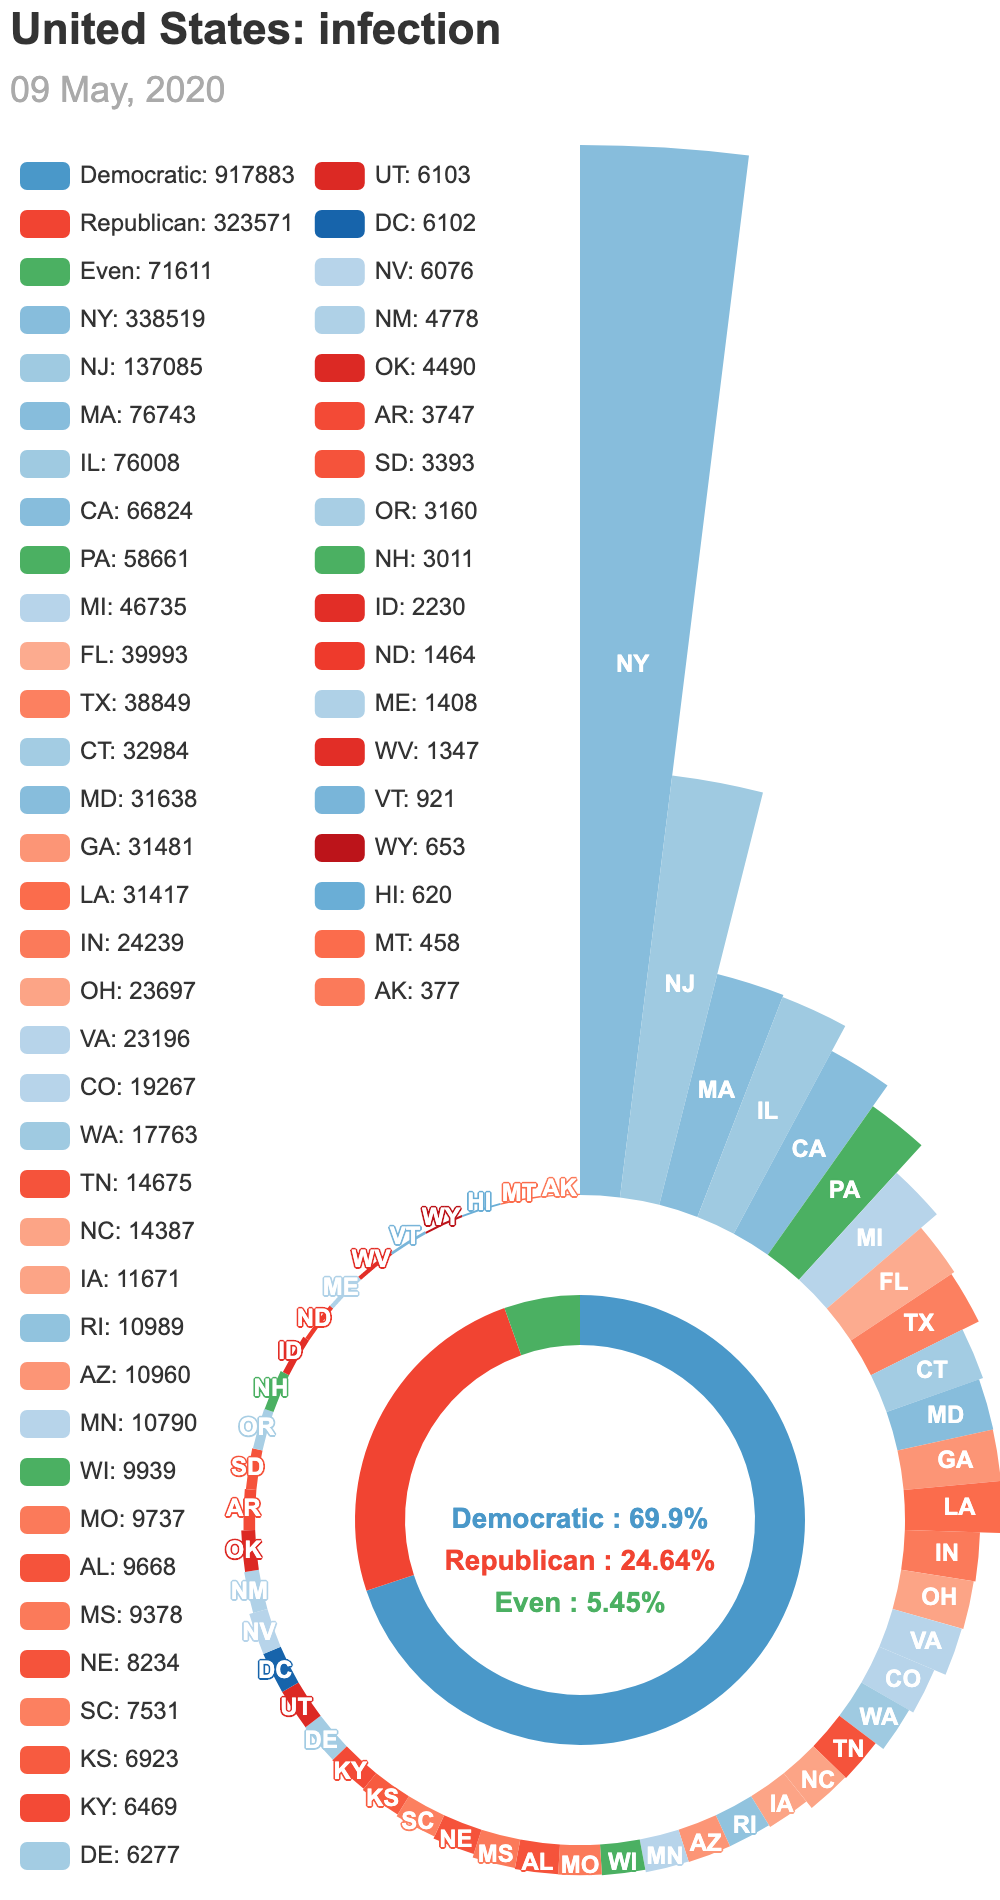
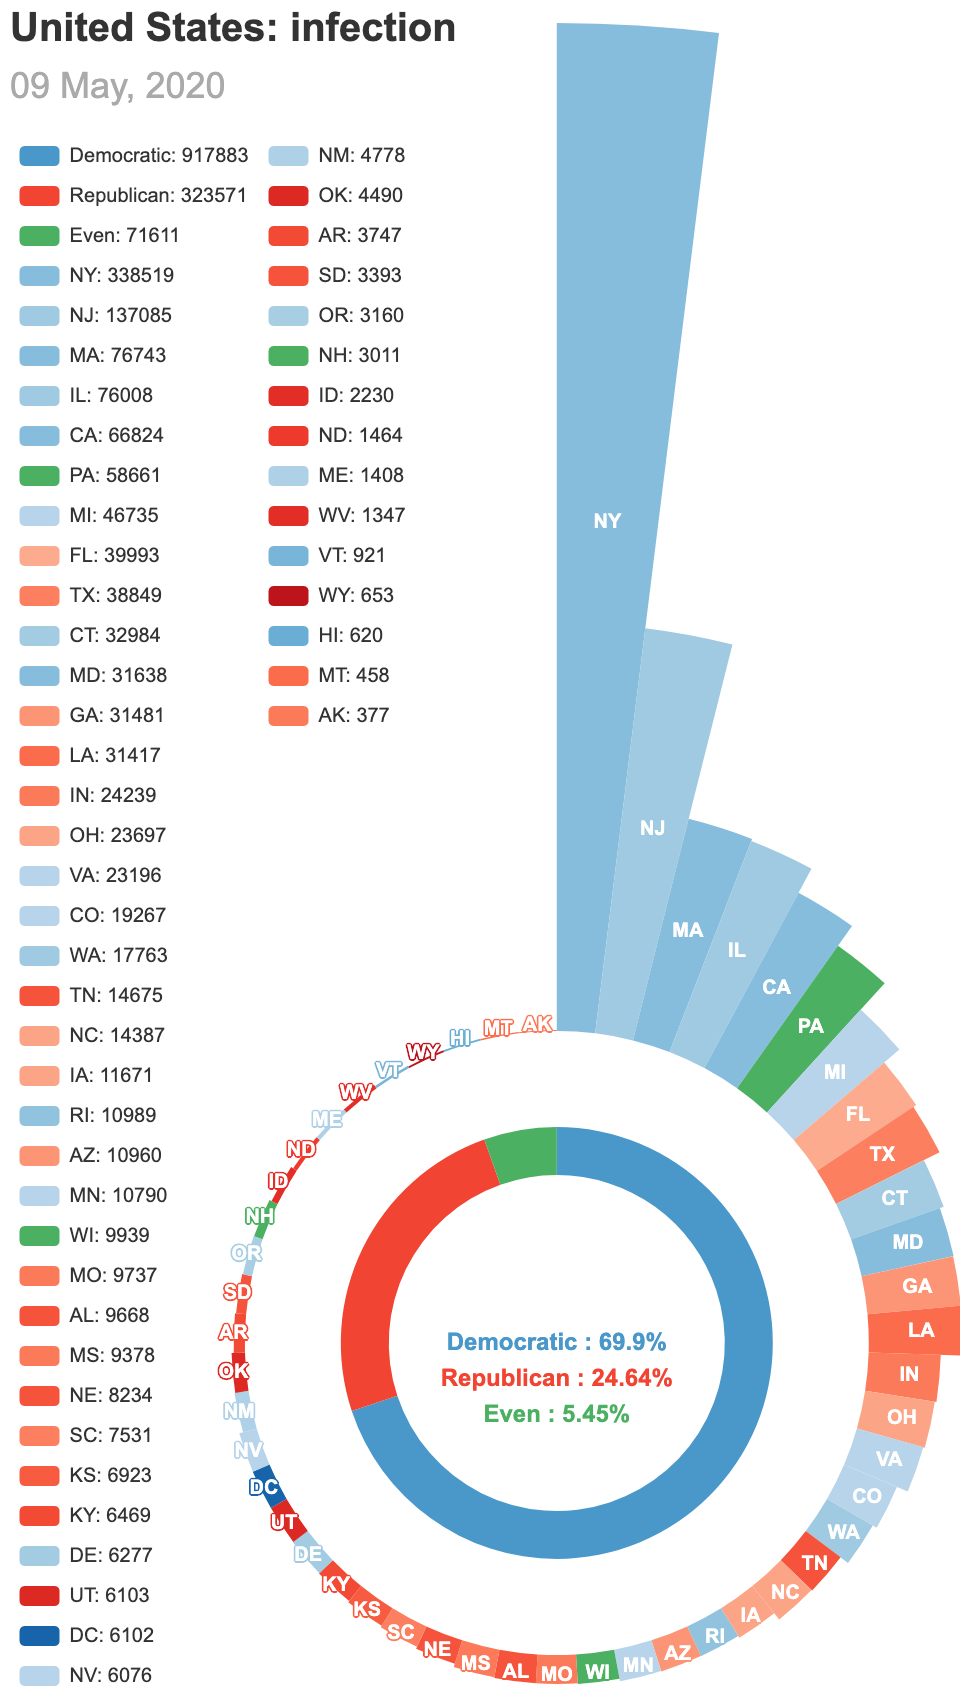
Add files via upload

diff --git a/covid-19/figures_us/US_rose.html b/covid-19/figures_us/US_rose.html
@@ -7,11 +7,11 @@
 
 </head>
 <body>
-    <div id="442e7ca3875748399ea8147b0052a436" class="chart-container" style="width:500px; height:950px;"></div>
+    <div id="b7b151dc062c47a9ab66928fc5ecd2ce" class="chart-container" style="width:480px; height:850px;"></div>
     <script>
-        var chart_442e7ca3875748399ea8147b0052a436 = echarts.init(
-            document.getElementById('442e7ca3875748399ea8147b0052a436'), 'white', {renderer: 'canvas'});
-        var option_442e7ca3875748399ea8147b0052a436 = {
+        var chart_b7b151dc062c47a9ab66928fc5ecd2ce = echarts.init(
+            document.getElementById('b7b151dc062c47a9ab66928fc5ecd2ce'), 'white', {renderer: 'canvas'});
+        var option_b7b151dc062c47a9ab66928fc5ecd2ce = {
     "animation": true,
     "animationThreshold": 2000,
     "animationDuration": 1000,
@@ -101,13 +101,13 @@
             ],
             "center": [
                 "58%",
-                "80%"
+                "79%"
             ],
             "label": {
                 "show": true,
                 "position": "center",
                 "margin": 8,
-                "fontSize": 14,
+                "fontSize": 12,
                 "fontWeight": "bold",
                 "verticalAlign": "top",
                 "formatter":         function(params) {            if(params.name.includes('Republican'))                return '\n\n\n' + params.name.substring(0, 10) + ' : ' + params.value + '%';            if(params.name.includes('Even'))                return '\n\n\n\n\n\n' + params.name.substring(0, 4) + ' : ' + params.value + '%';            if(params.name.includes('None'))                return '\n\n\n\n\n\n\n\n\n' + params.name.substring(0, 4) + ' : ' + params.value + '%';            return params.name.substring(0, 10) + ' : ' + params.value + '%';        }        
@@ -329,14 +329,14 @@
             ],
             "center": [
                 "58%",
-                "80%"
+                "79%"
             ],
             "roseType": "area",
             "label": {
                 "show": true,
                 "position": "inside",
                 "margin": 8,
-                "fontSize": 12,
+                "fontSize": 10,
                 "fontWeight": "bold",
                 "verticalAlign": "bottom",
                 "formatter":         function(params) {            return params.name.substring(0, 2);        }        
@@ -409,10 +409,10 @@
             "orient": "vertical",
             "padding": 5,
             "itemGap": 10,
-            "itemWidth": 25,
-            "itemHeight": 14,
+            "itemWidth": 20,
+            "itemHeight": 10,
             "textStyle": {
-                "fontSize": 12
+                "fontSize": 10
             }
         }
     ],
@@ -436,7 +436,7 @@
             "padding": 5,
             "itemGap": 10,
             "textStyle": {
-                "fontSize": 22
+                "fontSize": 20
             },
             "subtextStyle": {
                 "fontSize": 18
@@ -444,7 +444,7 @@
         }
     ]
 };
-        chart_442e7ca3875748399ea8147b0052a436.setOption(option_442e7ca3875748399ea8147b0052a436);
+        chart_b7b151dc062c47a9ab66928fc5ecd2ce.setOption(option_b7b151dc062c47a9ab66928fc5ecd2ce);
     </script>
 </body>
 </html>
